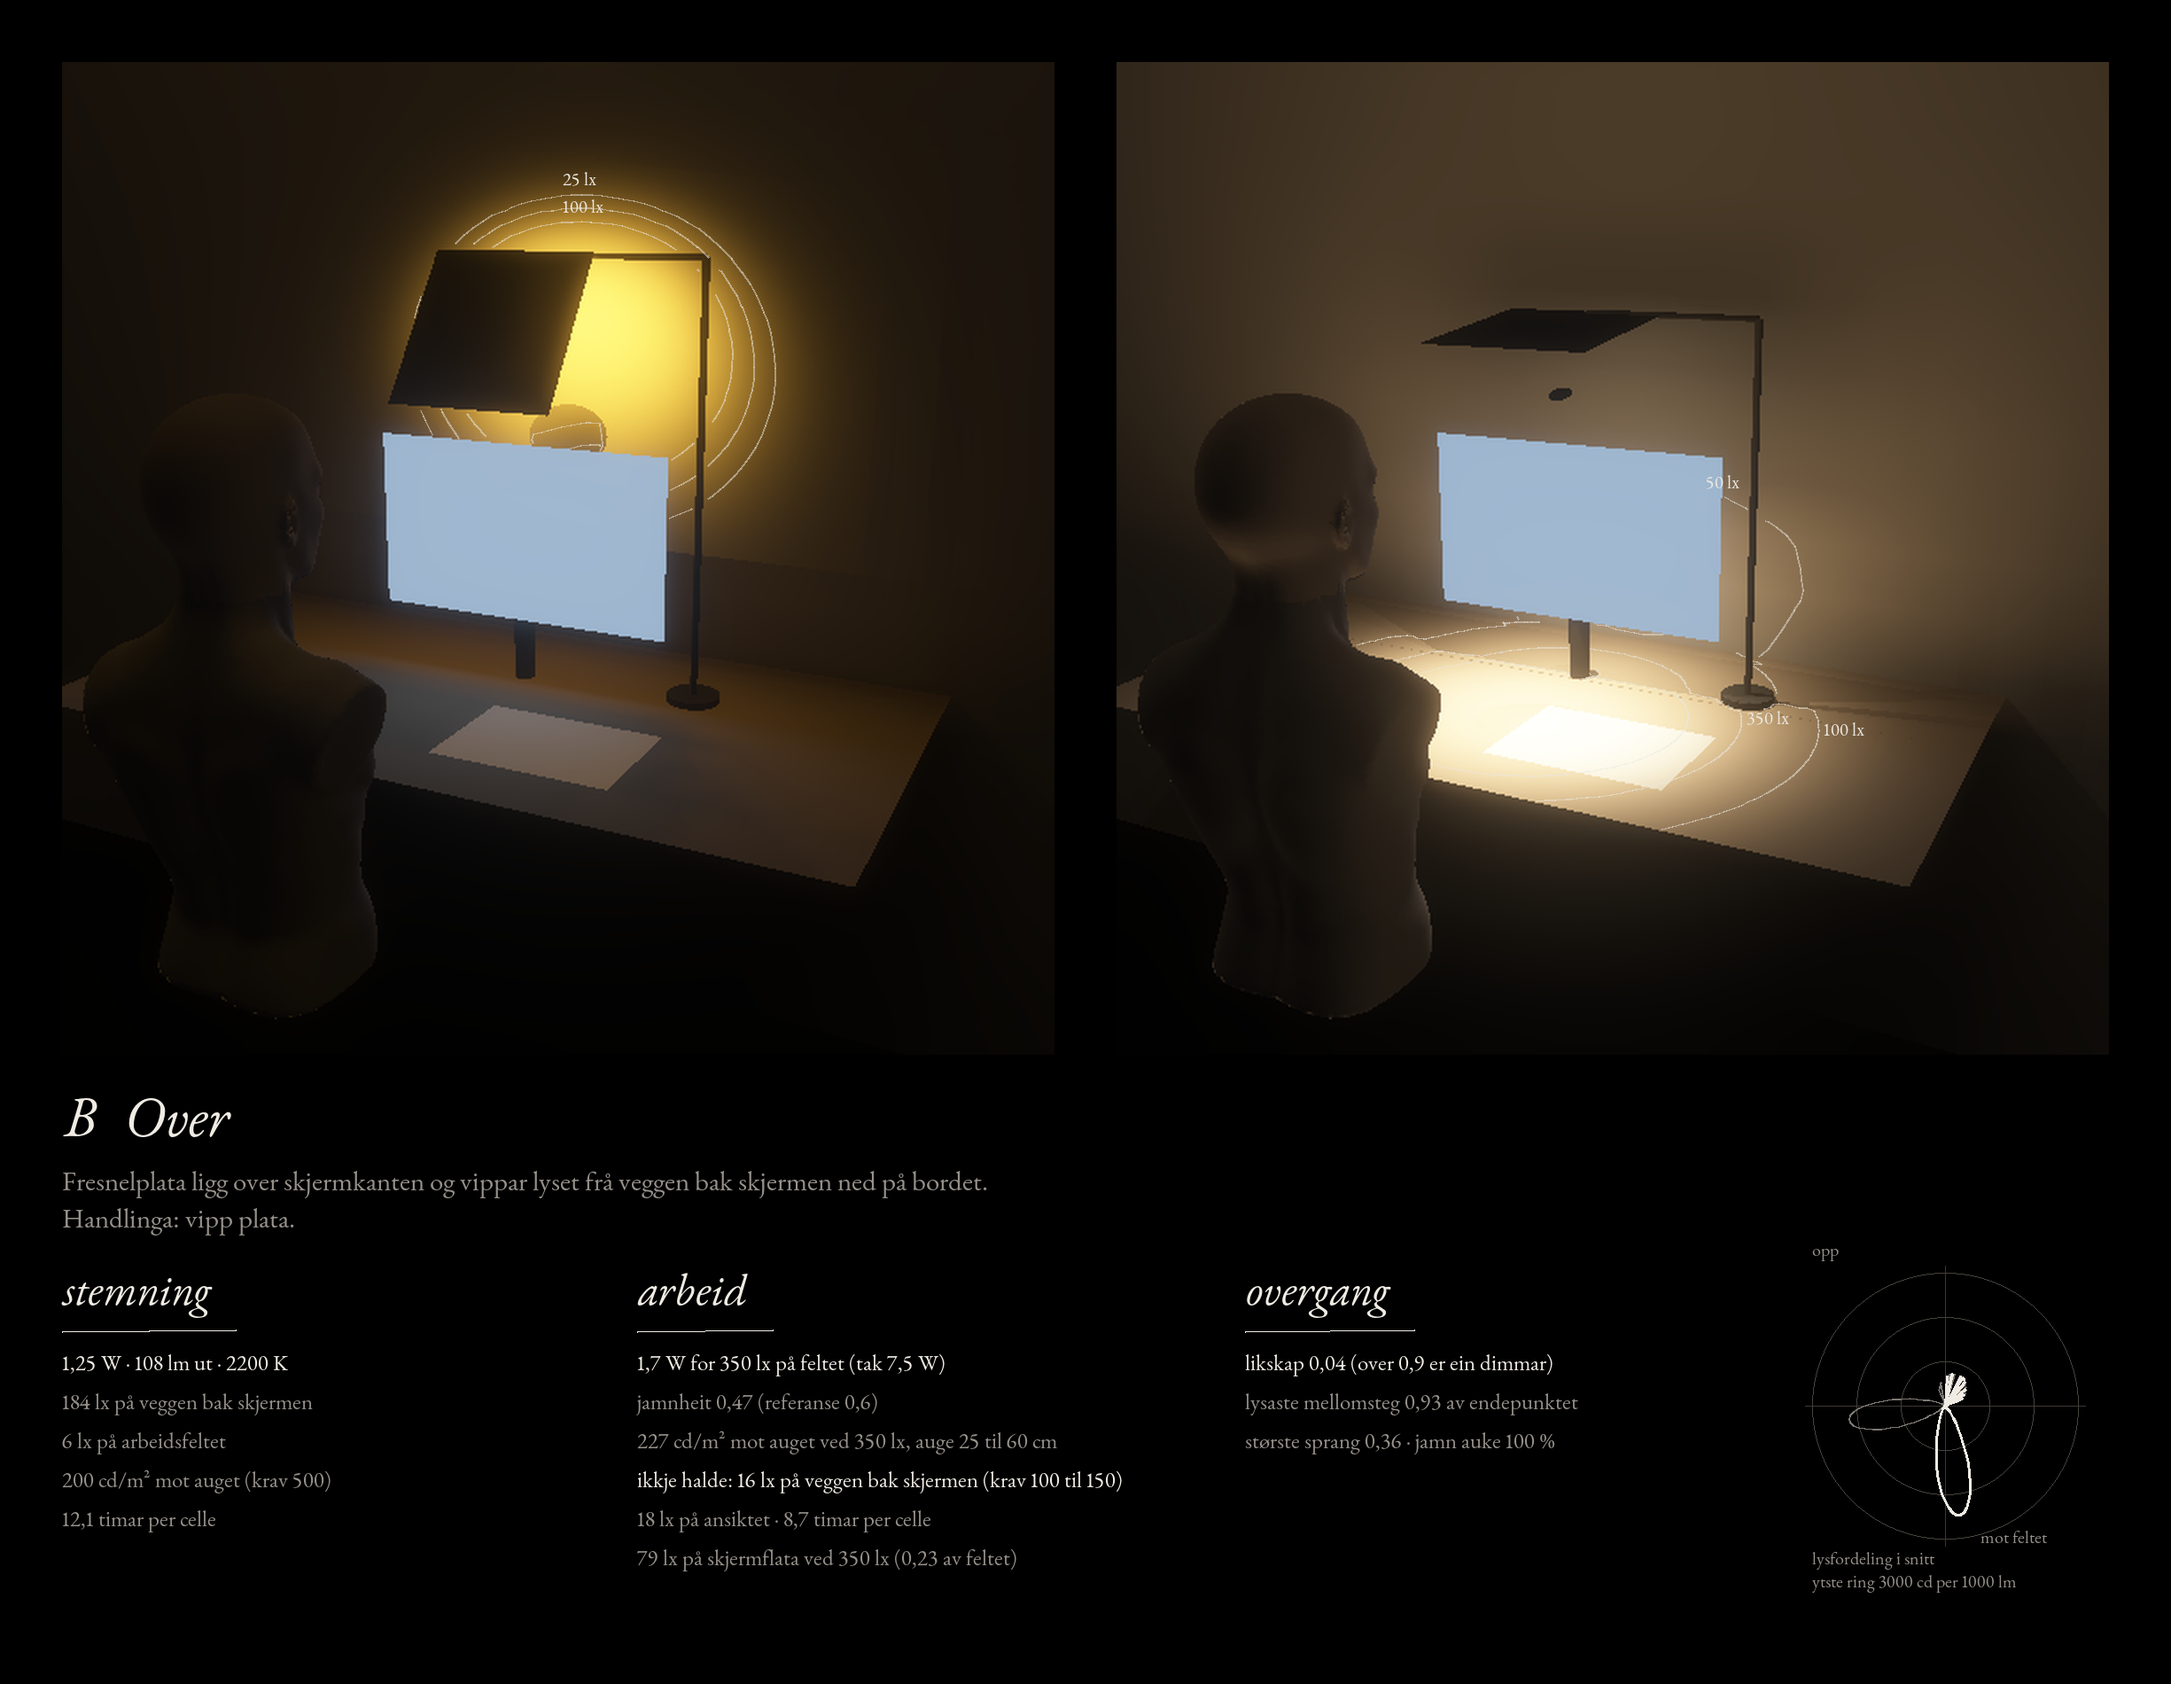
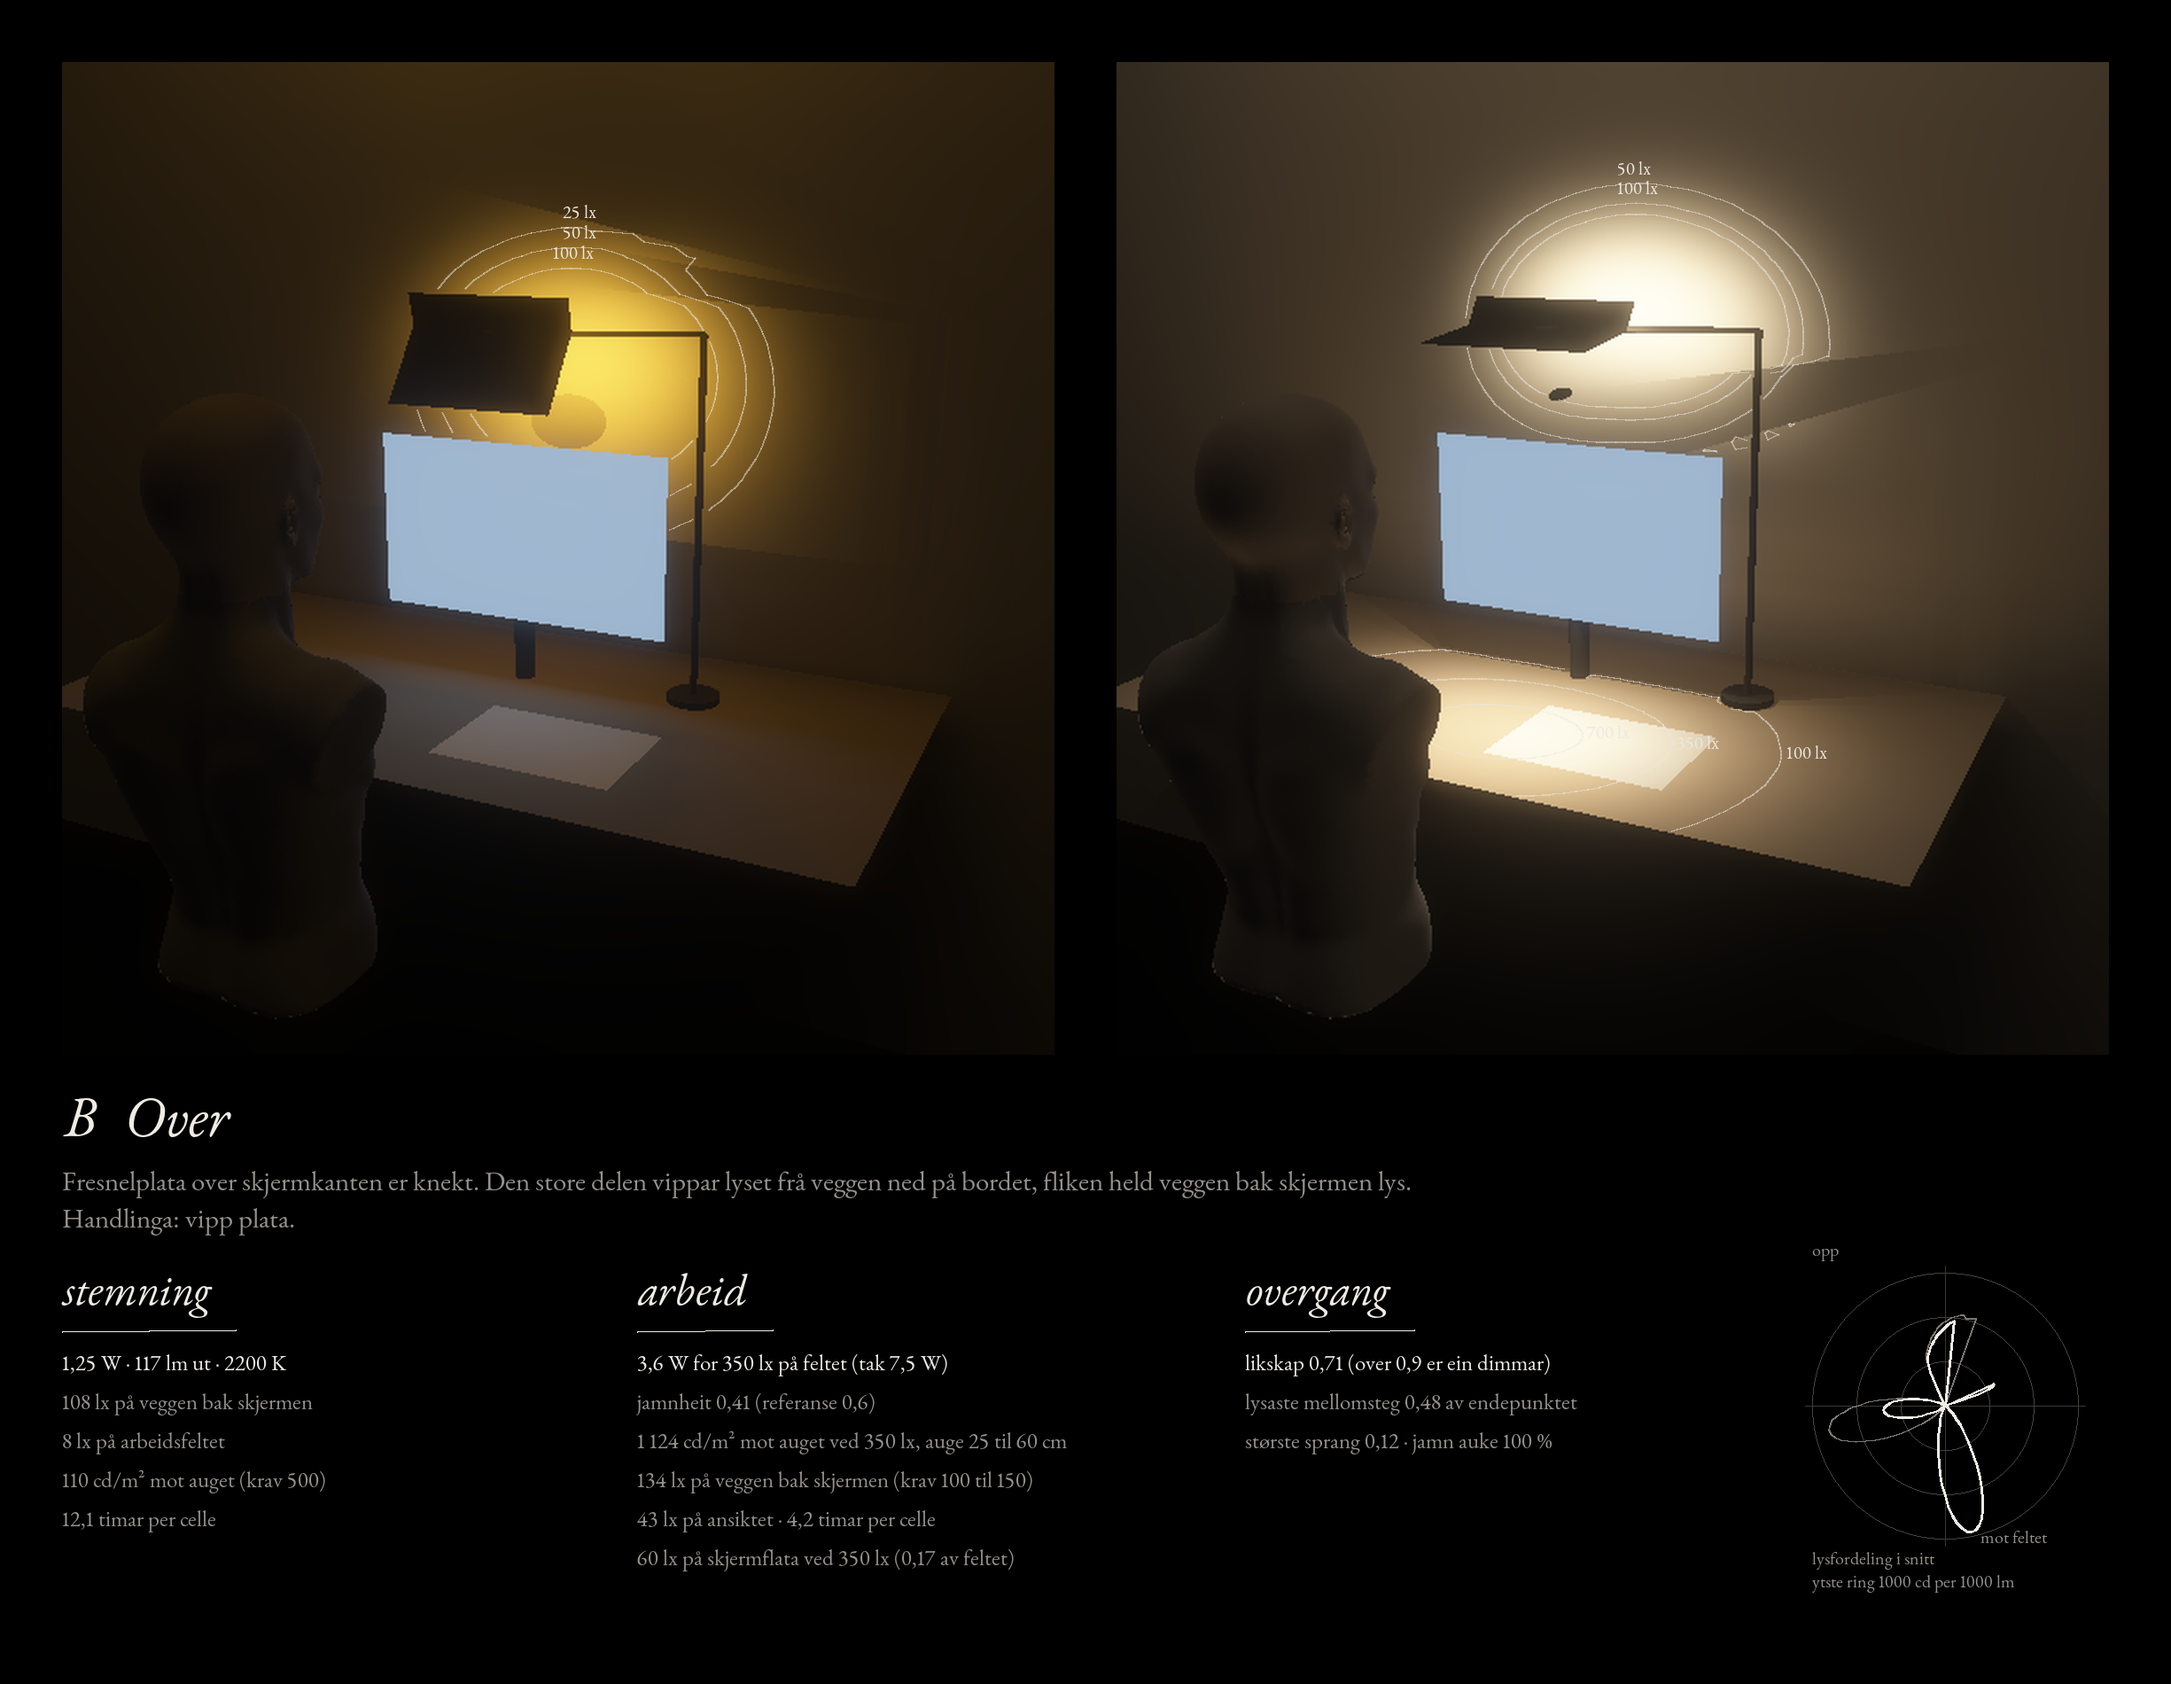
Autolagring 13.11 13:07: 2 filer

diff --git a/northern-lampe/gransking/stadfest_P4_2.py b/northern-lampe/gransking/stadfest_P4_2.py
@@ -68,6 +68,9 @@ def profil(slipp=False, p=0.0008):
                 tau=tau, beta=beta, K=K)
 
 
+WC = 1e-4 if 'fin' not in sys.argv else 1e-6
+
+
 @njit(cache=False)
 def spor(s0, z0, x0, dx0, ds0, dz0, SA, SB, nn, w, Lh, zc, cw, dtop, sig, modus):
     """Sum av vekt som endar på LED-stripa. modus 0: skarp. modus 1: gauss sig på vinkelen ut av oversida (erf)."""
@@ -83,7 +86,7 @@ def spor(s0, z0, x0, dx0, ds0, dz0, SA, SB, nn, w, Lh, zc, cw, dtop, sig, modus)
         sp -= 1
         s = st[sp, 0]; z = st[sp, 1]; x = st[sp, 2]; dx = st[sp, 3]; ds = st[sp, 4]; dz = st[sp, 5]
         med = int(st[sp, 6]); wt = st[sp, 7]; last = int(st[sp, 8])
-        for b in range(200):
+        for b in range(80):
             tb = 1e30; g = -1
             for k in range(SA.shape[0]):
                 if k == last:
@@ -142,7 +145,7 @@ def spor(s0, z0, x0, dx0, ds0, dz0, SA, SB, nn, w, Lh, zc, cw, dtop, sig, modus)
                 rp = ((n1 * ct - n2 * ci) / (n1 * ct + n2 * ci)) ** 2
                 R = 0.5 * (rs + rp)
             # transmisjon på stabelen, refleksjon vidare her
-            if R < 1.0 and wt * (1 - R) > 1e-6 and sp < M:
+            if R < 1.0 and wt * (1 - R) > WC and sp < M:
                 ct = math.sqrt(k2)
                 tx = rr * dx; ts = rr * ds + (rr * ci - ct) * Ns; tz = rr * dz + (rr * ci - ct) * Nz
                 q = math.sqrt(tx * tx + ts * ts + tz * tz)
@@ -150,7 +153,7 @@ def spor(s0, z0, x0, dx0, ds0, dz0, SA, SB, nn, w, Lh, zc, cw, dtop, sig, modus)
                 st[sp, 6] = 1 - med; st[sp, 7] = wt * (1 - R); st[sp, 8] = g
                 sp += 1
             wt = wt * R
-            if wt < 1e-6:
+            if wt < WC:
                 break
             ds = ds + 2.0 * ci * Ns; dz = dz + 2.0 * ci * Nz
             q = math.sqrt(dx * dx + ds * ds + dz * dz); dx /= q; ds /= q; dz /= q
@@ -225,39 +228,42 @@ if 'test' in sys.argv:
 # Phi for 500 lx: granskaren sin (prisme.json, nærfelt) og motoren sin
 PH = {('loddrett', 0.005): 459.351, ('loddrett', 0.010): 482.377, ('slipp', 0.005): 431.586, ('slipp', 0.010): 454.545}
 eye = fe.EYES[0]
-UT['linje_x0'] = {}
+UT['linje'] = {}
 _ = profilL(PROF['loddrett'], eye, 0.0, 0.005, matt='ingen', ds_=0.004)          # kompiler
-for pn in ('loddrett', 'slipp'):
-    for w in (0.005, 0.010):
+# fin køyring (del 1, WC 1e-6, 0,1 mm × 0,25°) gav for loddrett 5 mm: blank 0,5137 / 0,092 / 0,0066; auge 4°: 0,0486 / 0,0412 / 0,0063;
+# overside 4°: 0,1659 / 0,0829 / 0,0063; 10 mm blank 0,6062 / 0,1761 / 0,0122  (topp 1 mm / topp 1 cm / snitt, delar av L_LED)
+DEL = [a for a in sys.argv[1:] if a.startswith('del')]
+JOBB = {
+    'del2': [('loddrett', 0.005, 'auge', 4.0, 0.0), ('loddrett', 0.010, 'auge', 4.0, 0.0), ('loddrett', 0.005, 'overside', 12.0, 0.0),
+             ('loddrett', 0.005, 'auge', 4.0, 0.25),
+             ('slipp', 0.005, 'ingen', 4.0, 0.0), ('slipp', 0.005, 'auge', 4.0, 0.0), ('slipp', 0.010, 'auge', 4.0, 0.0),
+             ('slipp', 0.005, 'auge', 4.0, 0.25), ('slipp', 0.010, 'auge', 4.0, 0.25)],
+}
+for dn in DEL:
+    for pn, w, matt, sgd, xt in JOBB.get(dn, []):
         LL = 1 / (math.pi * w * L)
-        for matt, kw in (('ingen', dict(ds_=0.00002)), ('auge', dict(ds_=0.0001, gstep=0.25)), ('overside', dict(ds_=0.00002))):
-            t1 = time.time()
-            sc, prof, nf = profilL(PROF[pn], eye, 0.0, w, matt=matt, **kw)
-            q = tal(sc, prof)
-            out = dict(q, **{k + '_cdm2': q[k] * LL * PH[(pn, w)] for k in ('topp_1mm', 'topp_1cm', 'snitt')},
-                       **{k + '_cdm2_motorPhi': q[k] * LL * PHI_M for k in ('topp_1mm', 'topp_1cm', 'snitt')}, feil=int(nf))
-            UT['linje_x0'][f'{pn}_w{int(w*1000)}_{matt}'] = out
-            print(pn, w, matt, {k: (round(v, 4) if isinstance(v, float) else v) for k, v in out.items()}, f'{time.time()-t1:.1f}s', flush=True)
-            if pn == 'loddrett' and w == 0.005 and matt == 'auge':
-                # kvar på plata: snitt per cm
-                bins = np.arange(-8, 8.01, 1)
-                hcm = np.histogram(sc * 100, bins=bins, weights=prof)[0] / np.histogram(sc * 100, bins=bins)[0]
-                UT['per_cm_loddrett_w5_auge_cdm2'] = (hcm * LL * PH[(pn, w)]).round(1).tolist()
-                print('per cm (s -8..8):', UT['per_cm_loddrett_w5_auge_cdm2'], flush=True)
+        t1 = time.time()
+        kw = dict(ds_=0.00002) if matt != 'auge' else dict(ds_=0.0002, gstep=0.5)
+        sc, prof, nf = profilL(PROF[pn], eye, xt, w, sig_deg=sgd, matt=matt, **kw)
+        q = tal(sc, prof)
+        out = dict(q, **{k + '_cdm2': q[k] * LL * PH[(pn, w)] for k in ('topp_1mm', 'topp_1cm', 'snitt')}, feil=int(nf))
+        UT['linje'][f'{pn}_w{int(w*1000)}_{matt}{sgd:.0f}_x{xt}'] = out
+        print(pn, w, matt, sgd, 'x', xt, {k: (round(v, 4) if isinstance(v, float) else v) for k, v in out.items()}, f'{time.time()-t1:.1f}s', flush=True)
 
-# ---- heile plata (alle x) frå midtauga, 4° på augesida, 5 mm: same definisjon som L_mot (snitt over flata) ----
-UT['heile_plata'] = {}
-for pn in ('loddrett', 'slipp'):
-    w = 0.005; LL = 1 / (math.pi * w * L)
-    XG = np.linspace(-0.27, 0.27, 7)
-    sn = []; t1m = []
-    for xt in XG:
-        sc, prof, nf = profilL(PROF[pn], eye, xt, w, matt='auge', ds_=0.0002, gstep=0.5)
-        q = tal(sc, prof); sn.append(q['snitt']); t1m.append(q['topp_1mm'])
-    UT['heile_plata'][pn] = dict(x=XG.tolist(), snitt_per_x_cdm2=(np.array(sn) * LL * PH[(pn, w)]).round(1).tolist(),
-                                 snitt_cdm2=float(np.mean(sn) * LL * PH[(pn, w)]), topp_1mm_per_x_cdm2=(np.array(t1m) * LL * PH[(pn, w)]).round(0).tolist())
-    print('heile plata', pn, UT['heile_plata'][pn], flush=True)
+if 'del3' in DEL:
+    # heile plata (alle x) frå midtauga, 4° på augesida, 5 mm: same definisjon som L_mot (snitt over flata)
+    UT['heile_plata'] = {}
+    for pn in ('loddrett', 'slipp'):
+        w = 0.005; LL = 1 / (math.pi * w * L)
+        XG = np.linspace(-0.27, 0.27, 7)
+        sn = []; t1m = []
+        t1 = time.time()
+        for xt in XG:
+            sc, prof, nf = profilL(PROF[pn], eye, xt, w, matt='auge', ds_=0.0004, gstep=1.0)
+            q = tal(sc, prof); sn.append(q['snitt']); t1m.append(q['topp_1mm'])
+        UT['heile_plata'][pn] = dict(x=XG.tolist(), snitt_per_x_cdm2=(np.array(sn) * LL * PH[(pn, w)]).round(1).tolist(),
+                                     snitt_cdm2=float(np.mean(sn) * LL * PH[(pn, w)]), topp_1mm_per_x_cdm2=(np.array(t1m) * LL * PH[(pn, w)]).round(0).tolist())
+        print('heile plata', pn, UT['heile_plata'][pn], f'{time.time()-t1:.1f}s', flush=True)
 
 UT['tid_s'] = time.time() - t0
-print(json.dumps(UT, ensure_ascii=False))
 print(f'ferdig {time.time()-t0:.0f} s')
